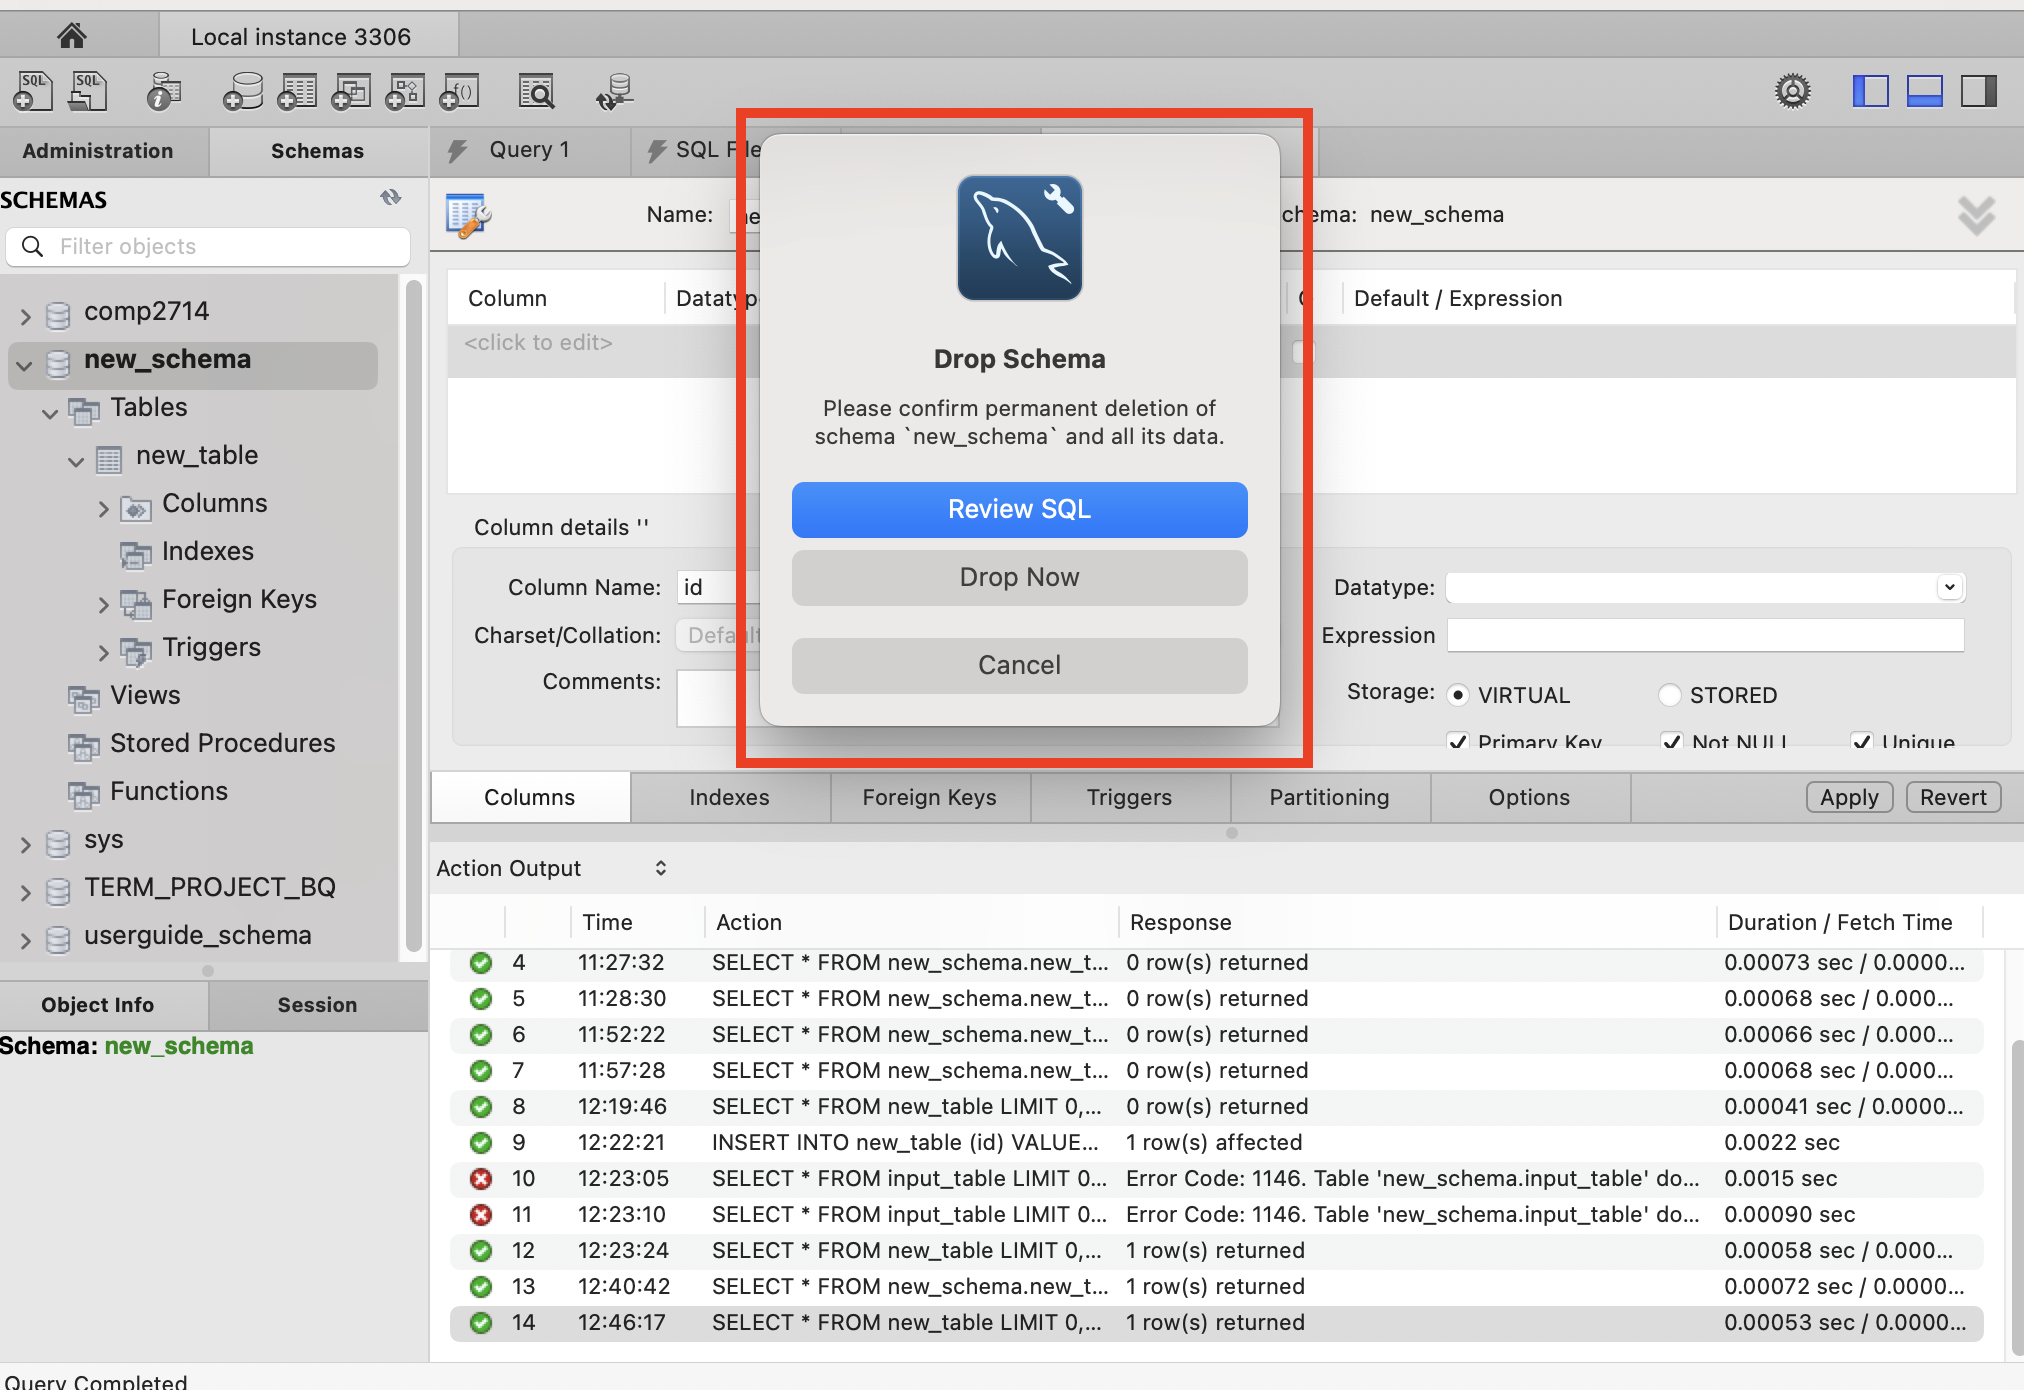
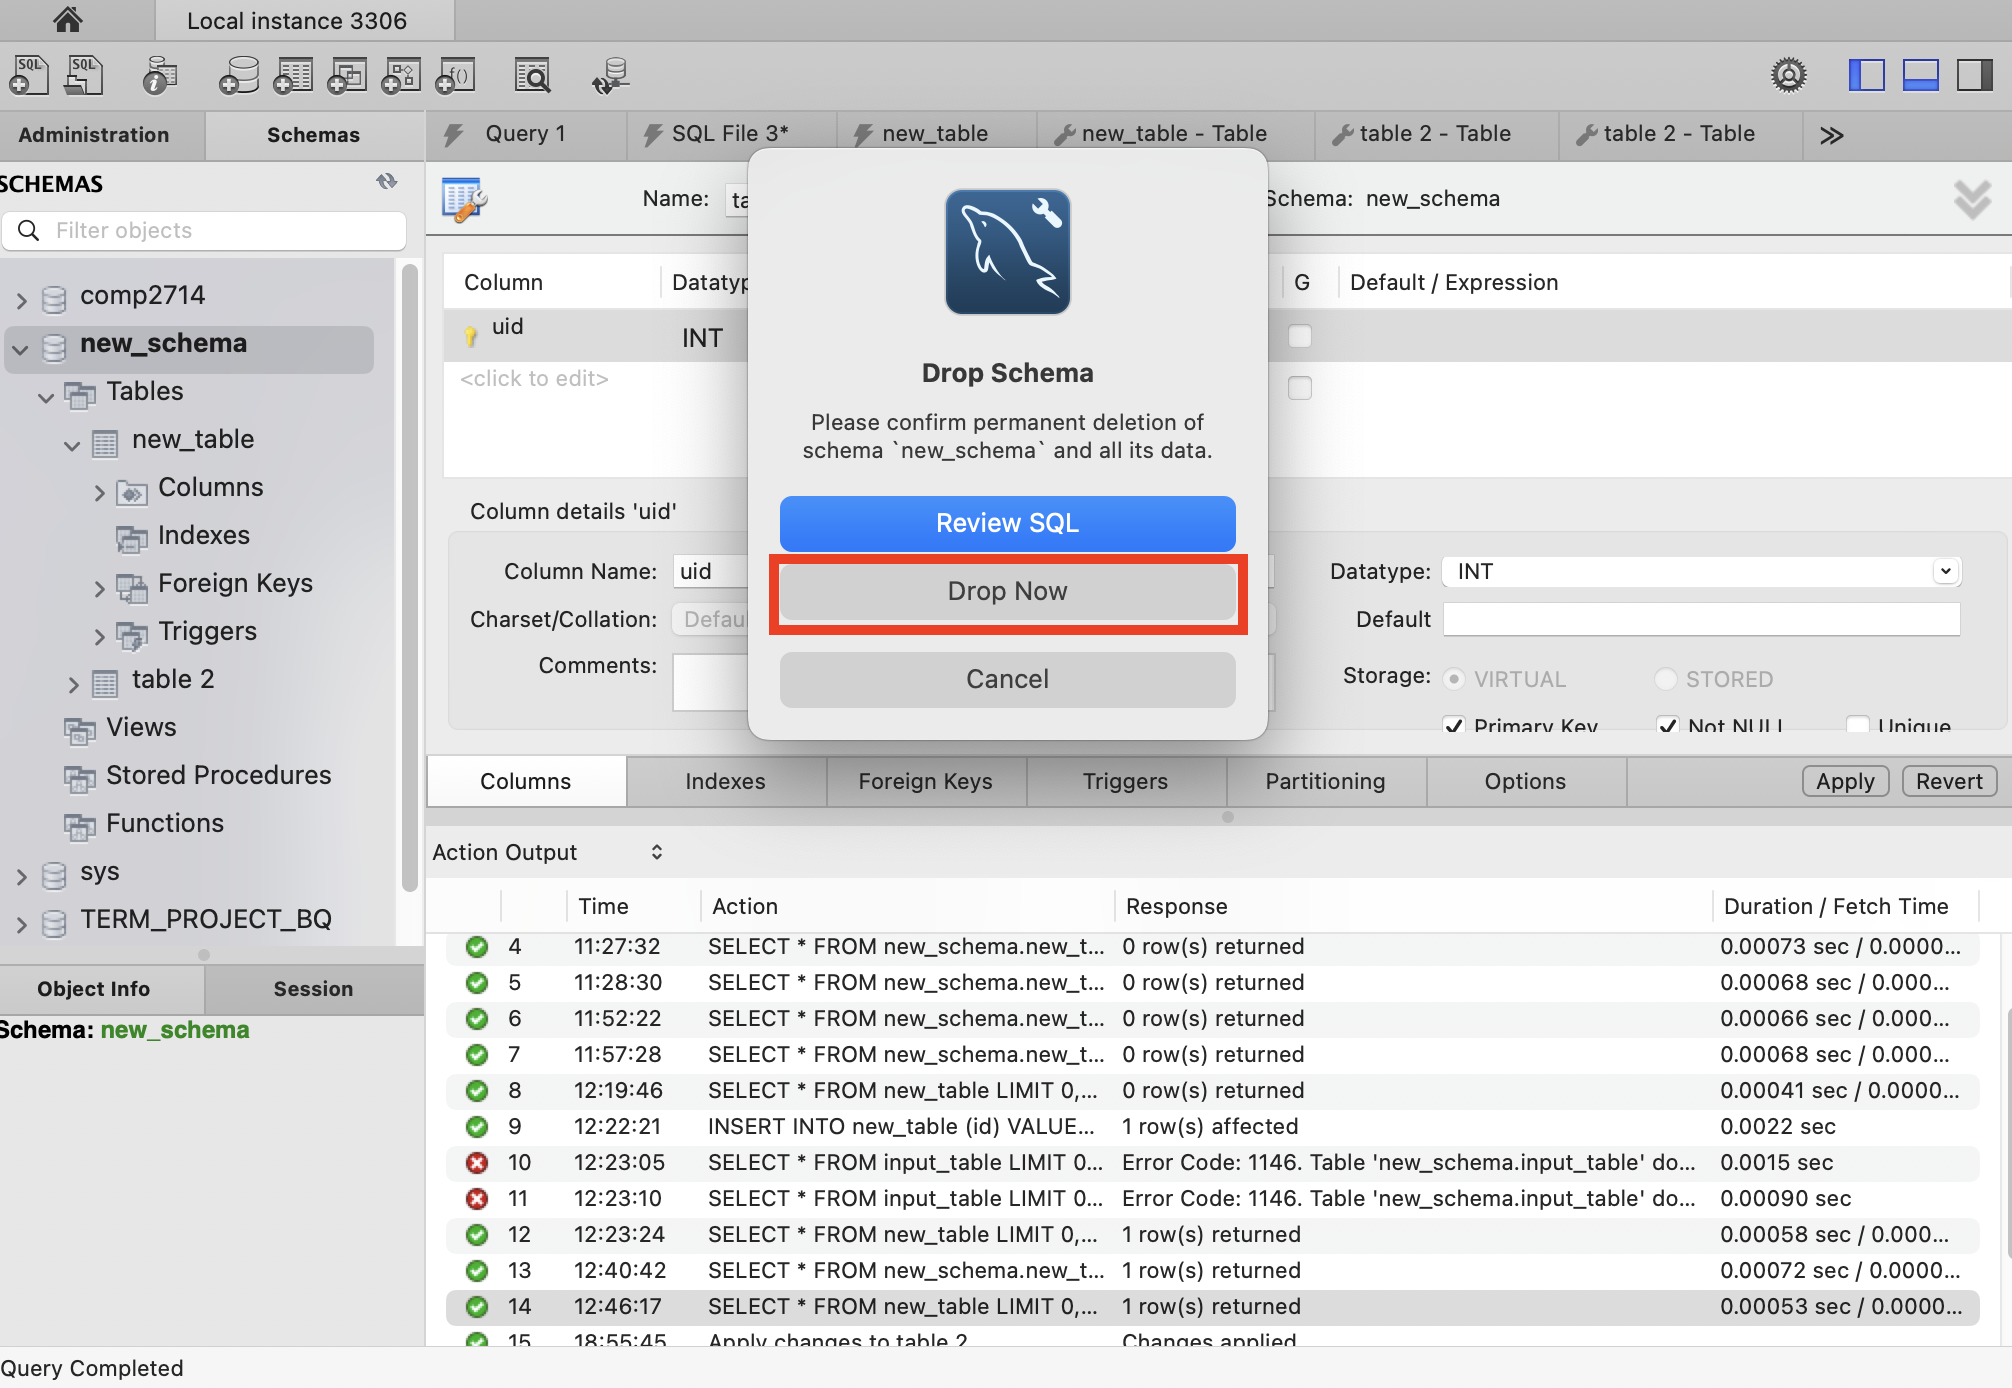
add table section

Changed region(s): [[0.0, 0.0, 1.0, 0.9914], [0.0, 0.9604, 0.0924, 1.0]]

diff --git a/docs/SAM_SQL_TASKS.md b/docs/SAM_SQL_TASKS.md
@@ -43,13 +43,13 @@ Success page:
 Move mouse to the Schemas panel and right click on the schema you want to delete.
 A confirmation window will appear asking if you want to drop the schema.
 Click the "Drop Now" button to delete the schema.
-![SuccessPage](./images/TABLE_screenshots/confirmDeleteSchemaDropNow.png)
+![SuccessPage](./images/TABLE_screenshots/confirmDeleteSchema.png)
 
 
 
 ## Table Tasks
 
-How to create a table:
+### Create a table
 
 1.  Move your mouse to the Schemas panel and make sure the table you want is selected.
 2.  You can check this by looking if the schema is in bold font indicated in the blue box.
@@ -66,12 +66,14 @@ After selecting the option to create a new table you will be taken to a new view
 
 note: a name for the first column is required to create a table!
 
-
 ![CreateTable](./images/TABLE_screenshots/newTablePanel.png)
 
 Once you have clicked "Apply", a new table will appear under "Tables" in the Schemas panel.
 In our case we have a table named "new_table" indicated in the red box.
 ![CreateTable](./images/TABLE_screenshots/newTableAppears.png)
+
+### Delete a table
+![SuccessPage](./images/TABLE_screenshots/confirmDeleteTableDropNow.png)
 
 ## SQL Tasks
 
